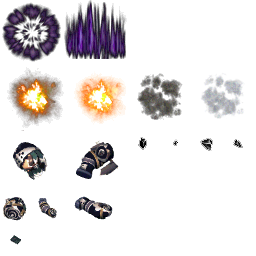
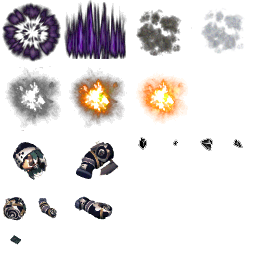
get ready for bomb effect

diff --git a/effect_see.py b/effect_see.py
@@ -1,0 +1,46 @@
+import os
+import sys
+import weakref
+import pygame
+import animation
+from pygame import transform
+from pygame.locals import *
+from random import randint
+from etc import setting as sfg
+from base import util
+
+
+screen = pygame.display.set_mode(sfg.Screen.SIZE, HWSURFACE|DOUBLEBUF)
+
+
+bomb_images = animation.effect_image_controller.get(
+    sfg.Effect.BOMB_IMAGE_KEY).convert_alpha().subsurface(sfg.Effect.BOMB_RECT)
+bombs = [bomb_images.subsurface((i * 64, 0, 64, 64)) for i in xrange(3)]
+
+
+def run():
+
+    t = 0
+    clock = pygame.time.Clock()
+    while True:
+        for event in pygame.event.get(): 
+            if event.type == pygame.QUIT: 
+                return
+            if event.type == KEYDOWN and event.key == K_ESCAPE:
+                return
+
+        screen.fill(pygame.Color("black"))
+
+        time_passed = clock.tick(sfg.FPS)
+        time_passed_seconds = time_passed / 200.0
+
+        t += time_passed_seconds
+        t %= len(bombs)
+        screen.blit(bombs[int(t)], (100, 100))
+
+        pygame.display.update()
+
+
+
+if __name__ == "__main__":
+    run()

diff --git a/etc/setting.py b/etc/setting.py
@@ -1188,6 +1188,9 @@ class Effect(object):
     HELL_CLAW_SHADOW_INDEX = 1
     HELL_CLAW_SHADOW_RECT_DELTA_Y = 18
 
+    BOMB_IMAGE_KEY = "e2"
+    BOMB_RECT = (0, 64, 192, 64)
+
     BLINK_RATE = 256
     BLINK_DEPTH_SECTION = (32, 128)
 
